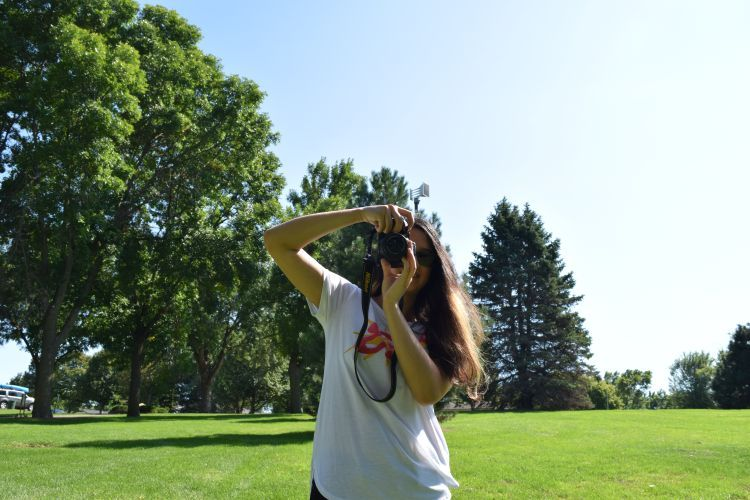
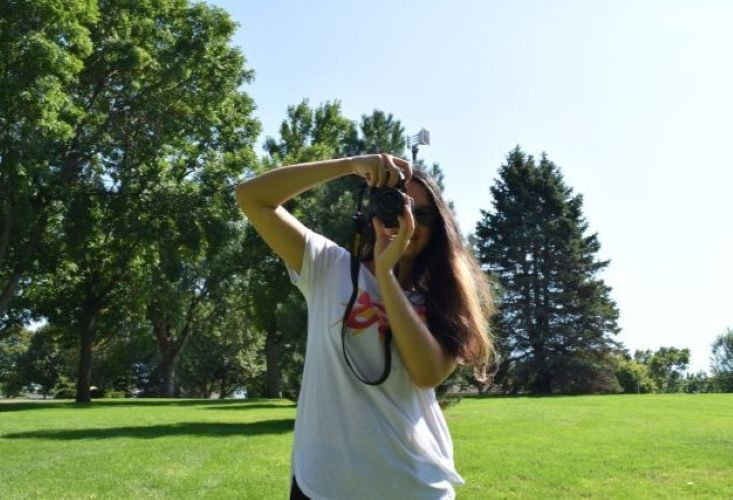
oops pictures not added right

diff --git a/funstuff.html b/funstuff.html
@@ -53,12 +53,12 @@
     <h3 class="text-center">Middle School</h3>
         <div class="grid-x grid-padding-x align-center text-center">
         <div class="cell small-12 medium-6">
-          <img src="media/middle1.jpg" alt="Middle School memory 1" class="memory-img">
+          <img src="media/Middle1.JPG" alt="Middle School memory 1" class="memory-img">
           <p class="caption">Pinterest? Nah, just really liked cameras</p>
         </div>
 
         <div class="cell small-12 medium-6">
-          <img src="media/middle2.jpg" alt="Middle School memory 2" class="memory-img">
+          <img src="media/Middle2.JPG" alt="Middle School memory 2" class="memory-img">
           <p class="caption">Was part of my middle school's "Tech Titan" group (unpaid IT interns). We ended up with a lot of cardboard.</p>
         </div>
       </div>
